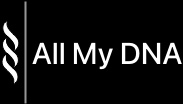
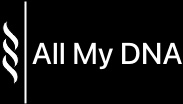
fixed font issue

diff --git a/src/app/page.module.css b/src/app/page.module.css
@@ -231,5 +231,4 @@
   justify-content: center;
   align-items: center;
   min-width: 210px;
-  width: 100%;
 }
